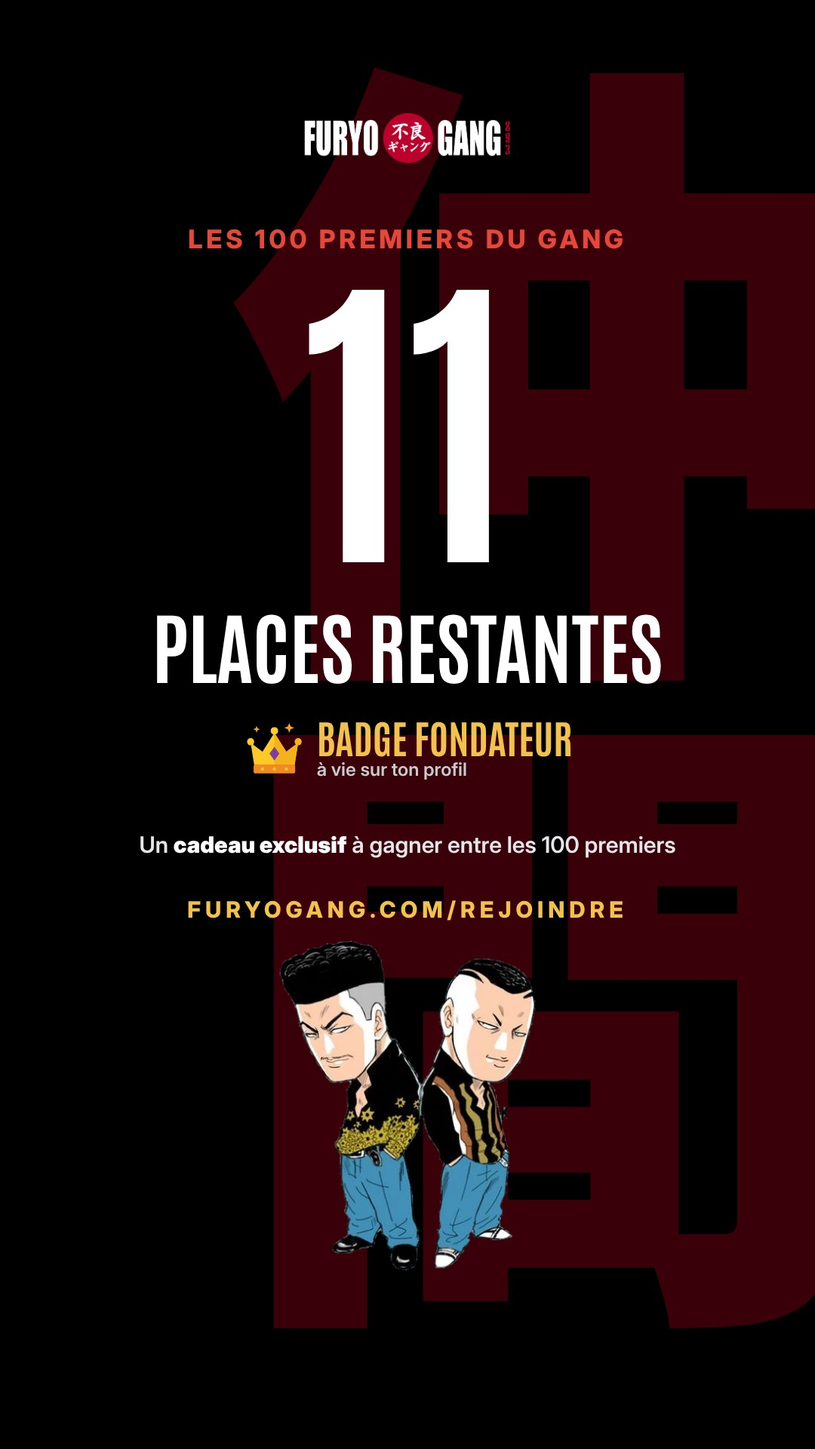
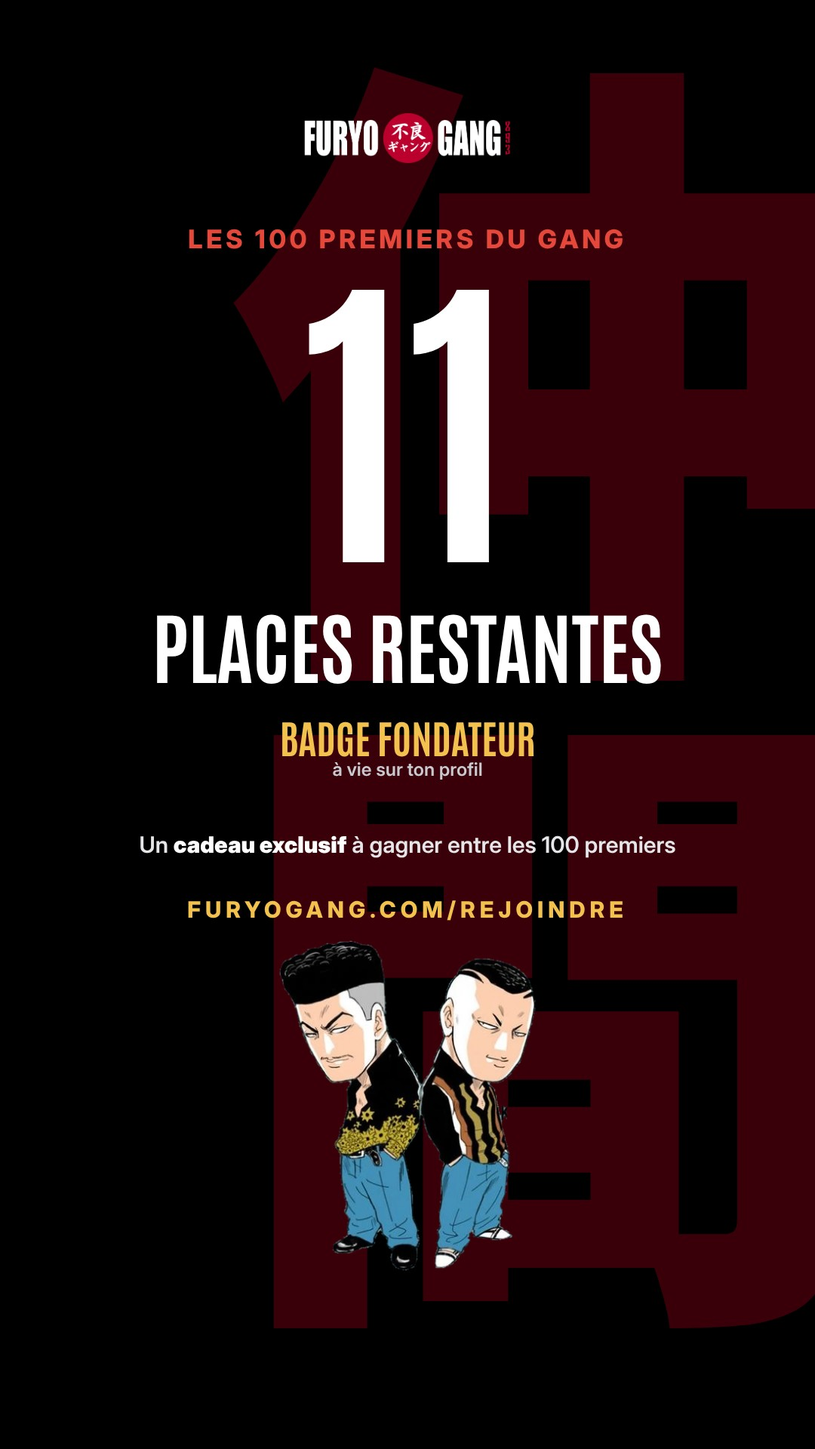
Studio « Prépublication de la semaine » : carrousel X / Instagram (1080 × 1350, 6 séries par image), téléchargeable sur téléphone ; story 100 premiers sans couronne, badge centré
Claude-Session: https://claude.ai/code/session_01ShgbxL6GpEPzbudUpDfTjj

Changed region(s): [[0.3056, 0.5, 0.7028, 0.5625]]

diff --git a/studio/prepub/index.html b/studio/prepub/index.html
@@ -1,0 +1,229 @@
+<!doctype html>
+<html lang="fr">
+<head>
+<meta charset="utf-8">
+<meta name="viewport" content="width=device-width, initial-scale=1, viewport-fit=cover">
+<meta name="robots" content="noindex">
+<title>Studio · Prépublication de la semaine · FuryoGang</title>
+<!-- Studio « Prépublication de la semaine » (Will, 24/11/2026) : le carrousel X / Instagram du dimanche, fabriqué tout seul
+     avec les mêmes données que la page /prepub/ (base Prépublication validée + images des fiches).
+     Image 1 : couverture (semaine, chiffres, mosaïque). Ensuite 6 séries par image (couverture, chapitre, magazine, jour).
+     Dernière image : les absentes, s'il y en a. Format 1080 × 1350 (4:5, plein écran sur X et Instagram).
+     Réglages par série (mettre en avant, retirer) : gardés sur l'appareil, semaine par semaine.
+     ?du=AAAA-MM-JJ : une autre semaine (celle qui contient ce jour). Le dimanche, c'est la semaine qui vient. -->
+<style>
+@font-face{font-family:FA;src:url(/fonts/Antonio.ttf) format("truetype");font-weight:100 700}
+@font-face{font-family:FI;src:url(/fonts/Inter.ttf) format("truetype");font-weight:100 900}
+@font-face{font-family:FJ;src:url(/fonts/NotoSansJP.ttf) format("truetype");font-weight:100 900}
+:root{--bg:#0c0c0e;--bg2:#17171a;--line:#262630;--cr:#F2EFE9;--mut:#9a968f}
+*{box-sizing:border-box;margin:0;padding:0}
+body{background:var(--bg);color:var(--cr);font:500 14px FI,system-ui,sans-serif;-webkit-font-smoothing:antialiased}
+.w{max-width:1100px;margin:0 auto;padding:20px 14px 80px}
+h1{font:700 30px/1 FA;text-transform:uppercase}
+.lead{color:var(--mut);margin-top:8px;line-height:1.45}
+.bar{position:sticky;top:0;z-index:5;background:rgba(12,12,14,.94);backdrop-filter:blur(8px);padding:12px 0;margin:14px 0 10px;display:flex;gap:8px;flex-wrap:wrap;align-items:center;border-bottom:1px solid var(--line)}
+button,.b{appearance:none;border:0;border-radius:11px;padding:11px 15px;font:700 13.5px FI;cursor:pointer;background:#26262c;color:#fff}
+button.main{background:#2A6FD0}
+button:disabled{opacity:.5}
+#msg{display:flex;gap:8px;flex-wrap:wrap;align-items:center;color:var(--mut);font-size:13px}
+.g{display:grid;gap:14px;grid-template-columns:repeat(auto-fill,minmax(220px,1fr))}
+.sl{background:var(--bg2);border:1px solid var(--line);border-radius:12px;padding:8px}
+.sl canvas{width:100%;height:auto;display:block;border-radius:6px}
+.sl .ft{display:flex;justify-content:space-between;align-items:center;margin-top:8px;font:600 12px FI;color:var(--mut)}
+.sl .ft a{color:var(--cr);background:#26262c;padding:6px 10px;border-radius:8px}
+h2{font:700 18px FA;text-transform:uppercase;margin:28px 0 10px}
+.ls{display:grid;gap:6px}
+.it{display:grid;grid-template-columns:1fr auto auto;gap:8px;align-items:center;background:var(--bg2);border:1px solid var(--line);border-radius:10px;padding:8px 10px}
+.it b{font:700 15px FA;text-transform:uppercase}.it small{display:block;color:var(--mut);font-size:12px;margin-top:2px}
+.it label{display:flex;gap:5px;align-items:center;font:600 12px FI;color:var(--mut);white-space:nowrap}
+.it.off{opacity:.45}
+textarea{width:100%;min-height:120px;background:var(--bg2);color:var(--cr);border:1px solid var(--line);border-radius:10px;padding:10px;font:500 14px FI}
+</style>
+</head>
+<body>
+<div class="w">
+  <h1>Prépublication de la semaine</h1>
+  <p class="lead" id="lead">Chargement…</p>
+  <div class="bar"><button class="main" id="dl">Télécharger toutes les images</button><span id="msg"></span></div>
+  <div class="g" id="g"></div>
+  <h2>Texte pour X</h2>
+  <textarea id="tx"></textarea>
+  <div style="margin-top:8px"><button id="cp">Copier</button></div>
+  <h2>Les séries de la semaine</h2>
+  <p class="lead">« À la une » place la série sur la première image avec une étiquette ; « Retirer » la sort du carrousel. Gardé sur cet appareil.</p>
+  <div class="ls" id="ls" style="margin-top:10px"></div>
+</div>
+<script>
+(function () {
+  var $ = function (s) { return document.querySelector(s); };
+  var W = 1080, H = 1350, PAR = 6;
+  var JOURS = ["dimanche", "lundi", "mardi", "mercredi", "jeudi", "vendredi", "samedi"], MOIS = ["janvier", "février", "mars", "avril", "mai", "juin", "juillet", "août", "septembre", "octobre", "novembre", "décembre"];
+  var iso = function (d) { return d.getFullYear() + "-" + ("0" + (d.getMonth() + 1)).slice(-2) + "-" + ("0" + d.getDate()).slice(-2); };
+  var get = function (u) { return fetch(u).then(function (r) { return r.ok ? r.json() : null; }).catch(function () { return null; }); };
+  var cv = function (u, w) { return u ? (/^https?:/.test(u) ? "/api/couv?u=" + encodeURIComponent(u) + "&w=" + w : u) : ""; };
+  // Semaine : lundi → dimanche ; le dimanche, la semaine qui vient (comme /prepub/).
+  var q = new URLSearchParams(location.search), base = /^\d{4}-\d{2}-\d{2}$/.test(q.get("du") || "") ? new Date(q.get("du") + "T12:00:00") : new Date();
+  if (!q.get("du") && base.getDay() === 0) base.setDate(base.getDate() + 1);
+  var lun = new Date(base); lun.setHours(12, 0, 0, 0); lun.setDate(lun.getDate() - ((lun.getDay() + 6) % 7));
+  var dim = new Date(lun); dim.setDate(dim.getDate() + 6);
+  var D1 = iso(lun), D7 = iso(dim), CLE = "fg:prepub-studio:" + D1;
+  var magNom = function (x) {
+    var m = (x.entry.split(" · ")[1] || x.mag || "").replace(/\s*\(en ligne\)/, " en ligne");
+    m = m.replace(/(\d{4})年\s*(\d{1,2})月号/, function (_, a, b) { return MOIS[+b - 1] + " " + a; });
+    m = m.replace(/\s*\d{4}\s*年?\s*(?:No\.|第)?\s*([\d\/・]+)\s*号?/, function (_, n) { return " n°" + n.replace(/・/g, "-"); });
+    return m.replace(/第(\d+)号/, "n°$1").trim();
+  };
+  var nom = function (x) { return x.entry.split(" · ")[0]; };
+  var cle = function (x) { return nom(x) + "|" + x.date; };
+  var tagDe = function (x) { var h = (x.hl || []).filter(function (t) { return t !== "Annonce" && t !== "Pause annoncée"; }); return h[0] === "Couleur d'ouverture" || h[0] === "Pages couleur" ? "Couleur" : h[0] || ""; };
+  var REG = {}; try { REG = JSON.parse(localStorage.getItem(CLE) || "{}") || {}; } catch (e) {}
+  var sauver = function () { try { localStorage.setItem(CLE, JSON.stringify(REG)); } catch (e) {} };
+  var fontes = Promise.all([new FontFace("FA", "url(/fonts/Antonio.ttf)", { weight: "100 700" }), new FontFace("FI", "url(/fonts/Inter.ttf)", { weight: "100 900" }), new FontFace("FJ", "url(/fonts/NotoSansJP.ttf)", { weight: "100 900" })].map(function (f) { return f.load().then(function (x) { document.fonts.add(x); }); })).catch(function () {});
+  var IMG = {}; var charger = function (u) { if (!u) return Promise.resolve(null); if (IMG[u]) return IMG[u]; return (IMG[u] = new Promise(function (ok) { var i = new Image(); i.crossOrigin = "anonymous"; i.onload = function () { ok(i); }; i.onerror = function () { ok(null); }; i.src = u; })); };
+  var LOGO = charger("/img/social/logo-blanc.png");
+  var DATA = null, BY = {};
+
+  // ---------- Dessin ----------
+  function couvrir(c, im, x, y, w, h, haut) { var k = Math.max(w / im.width, h / im.height), sw = w / k, sh = h / k; c.drawImage(im, (im.width - sw) / 2, haut ? 0 : (im.height - sh) / 2, sw, sh, x, y, w, h); }
+  function rr(c, x, y, w, h, r) { c.beginPath(); c.moveTo(x + r, y); c.arcTo(x + w, y, x + w, y + h, r); c.arcTo(x + w, y + h, x, y + h, r); c.arcTo(x, y + h, x, y, r); c.arcTo(x, y, x + w, y, r); c.closePath(); }
+  function ajuste(c, t, max, taille, police) { var s = taille; c.font = police.replace("#", s); while (c.measureText(t).width > max && s > 12) { s -= 2; c.font = police.replace("#", s); } return s; }
+  function lignes(c, t, max, n) { var m = t.split(/\s+/), l = [], cur = ""; m.forEach(function (w) { var e = cur ? cur + " " + w : w; if (c.measureText(e).width > max && cur) { l.push(cur); cur = w; } else cur = e; }); if (cur) l.push(cur); if (l.length > n) { l = l.slice(0, n); var d = l[n - 1]; while (c.measureText(d + "…").width > max && d.length > 1) d = d.slice(0, -1); l[n - 1] = d + "…"; } return l; }
+  function fond(c, im) {
+    c.fillStyle = "#0c0c0e"; c.fillRect(0, 0, W, H);
+    if (im) { c.save(); c.filter = "grayscale(1) blur(3px)"; c.globalAlpha = .22; couvrir(c, im, -20, -20, W + 40, H + 40, true); c.restore(); }
+    var g = c.createLinearGradient(0, 0, 0, H); g.addColorStop(0, "rgba(12,12,14,.35)"); g.addColorStop(.3, "rgba(12,12,14,.75)"); g.addColorStop(1, "rgba(12,12,14,.88)"); c.fillStyle = g; c.fillRect(0, 0, W, H);
+  }
+  function logo(c, lg) { if (lg) { var h = 56, w = lg.width * h / lg.height; c.drawImage(lg, (W - w) / 2, 34, w, h); } }
+  function pastille(c, t, x, y, coul, taille) { c.font = "800 " + (taille || 26) + "px FI"; var w = c.measureText(t).width + 36, h = (taille || 26) + 24; c.fillStyle = coul; rr(c, x, y, w, h, 12); c.fill(); c.fillStyle = "#fff"; c.textBaseline = "middle"; c.fillText(t, x + 18, y + h / 2 + 1); c.textBaseline = "alphabetic"; return w; }
+  function fleche(c, x, y, w) { c.save(); c.strokeStyle = "#F2EFE9"; c.lineWidth = 8; c.lineCap = "round"; c.lineJoin = "round"; c.beginPath(); c.moveTo(x, y); c.lineTo(x + w, y); c.moveTo(x + w - 20, y - 18); c.lineTo(x + w, y); c.lineTo(x + w - 20, y + 18); c.stroke(); c.restore(); }
+  function pied(c, t, n, tot) {
+    c.font = "700 32px FA"; c.textAlign = "center"; c.fillStyle = "#F2EFE9"; var a = t, b = "furyogang.com/prepub";
+    var wa = c.measureText(a.toUpperCase() + "  ").width, wb = c.measureText(b.toUpperCase()).width, x0 = (W - wa - wb) / 2;
+    c.textAlign = "left"; c.fillText(a.toUpperCase() + "  ", x0, H - 46); c.fillStyle = "#F2C14E"; c.fillText(b.toUpperCase(), x0 + wa, H - 46);
+    if (tot > 1) { c.font = "700 26px FA"; c.fillStyle = "#9a968f"; c.textAlign = "right"; c.fillText(n + " / " + tot, W - 48, 76); c.textAlign = "left"; }
+  }
+  function titreSemaine(c, y, taille) {
+    var a = String(lun.getDate()), b = String(dim.getDate()), m = (lun.getMonth() === dim.getMonth() ? "" : " " + MOIS[lun.getMonth()]);
+    c.font = "700 " + taille + "px FA"; c.fillStyle = "#F2EFE9"; var x = 60;
+    c.fillText((a + m).toUpperCase(), x, y); x += c.measureText((a + m).toUpperCase()).width + 26;
+    fleche(c, x, y - taille * .36, taille * .62); x += taille * .62 + 30;
+    c.fillText(b, x, y); x += c.measureText(b + " ").width;
+    c.fillStyle = "#F2C14E"; c.fillText(MOIS[dim.getMonth()].toUpperCase(), x, y);
+  }
+  function carte(c, x, y, w, h, s, im) {
+    c.save(); rr(c, x, y, w, h, 12); c.clip();
+    if (im) couvrir(c, im, x, y, w, h, true); else { var gg = c.createLinearGradient(x, y, x + w, y + h); gg.addColorStop(0, "#2a2a31"); gg.addColorStop(1, "#17171a"); c.fillStyle = gg; c.fillRect(x, y, w, h); c.fillStyle = "#6c6c74"; c.font = "700 " + Math.round(w / 4) + "px FA"; c.textAlign = "center"; c.textBaseline = "middle"; c.fillText(nom(s).split(/[\s-]+/).filter(Boolean).slice(0, 2).map(function (m) { return m[0]; }).join("").toUpperCase(), x + w / 2, y + h / 2); c.textAlign = "left"; c.textBaseline = "alphabetic"; }
+    if (s.off) { c.fillStyle = "rgba(12,12,14,.62)"; c.fillRect(x, y, w, h); }
+    var g = c.createLinearGradient(0, y + h * .62, 0, y + h); g.addColorStop(0, "rgba(0,0,0,0)"); g.addColorStop(1, "rgba(0,0,0,.92)"); c.fillStyle = g; c.fillRect(x, y + h * .6, w, h * .4);
+    c.restore();
+    var tg = s.tag; if (tg) { c.font = "800 " + Math.round(w / 19) + "px FI"; var tw = c.measureText(tg.toUpperCase()).width + 18, th = Math.round(w / 19) + 14; c.fillStyle = /Retour|Nouvel/.test(tg) ? "#4DAB9A" : "#E5483A"; rr(c, x + 10, y + 10, tw, th, 7); c.fill(); c.fillStyle = "#fff"; c.textBaseline = "middle"; c.fillText(tg.toUpperCase(), x + 19, y + 10 + th / 2 + 1); c.textBaseline = "alphabetic"; }
+    c.textAlign = "center"; c.fillStyle = s.off ? "#9a968f" : tg ? "#F2C14E" : "#F2EFE9"; c.font = "700 " + Math.round(w / 8.5) + "px FA";
+    c.fillText(s.off ? "Absente" : s.ch != null ? "Ch. " + Math.floor(s.ch) : "Nouveau ch.", x + w / 2, y + h - 16); c.textAlign = "left";
+  }
+  function dessinerCouv(c, l, ims, lg, n, tot, nMag, fondIm) {
+    fond(c, fondIm); logo(c, lg);
+    c.save(); c.font = "900 58px FJ"; c.fillStyle = "#BC002D"; "今週の連載".split("").forEach(function (k, i) { c.fillText(k, W - 100, 170 + i * 62); }); c.restore();
+    pastille(c, "PRÉPUBLICATION DE LA SEMAINE", 60, 124, "#BC002D", 26);
+    titreSemaine(c, 300, 108);
+    c.font = "600 28px FI"; c.fillStyle = "#b9b5ae"; c.fillText(l.length + " chapitre" + (l.length > 1 ? "s" : "") + " dans " + nMag + " magazine" + (nMag > 1 ? "s" : "") + " japonais", 60, 352);
+    // Mosaïque : jusqu'à 10 couvertures, la une d'abord.
+    var m = l.slice(0, 10), cols = m.length <= 3 ? 3 : m.length === 4 ? 4 : 5, gap = 14, cw = (W - 120 - gap * (cols - 1)) / cols, ch = cw * 4 / 3, rows = Math.ceil(m.length / cols), y0 = Math.round(400 + (860 - rows * (ch + 64)) / 2);
+    m.forEach(function (s, i) { carte(c, 60 + (i % cols) * (cw + gap), y0 + Math.floor(i / cols) * (ch + 64), cw, ch, s, ims[i]); c.font = "700 19px FA"; c.fillStyle = "#F2EFE9"; var t = lignes(c, nom(s).toUpperCase(), cw, 1)[0]; c.fillText(t, 60 + (i % cols) * (cw + gap), y0 + Math.floor(i / cols) * (ch + 64) + ch + 28); });
+    pied(c, tot > 1 ? "Glisse pour tout voir ·" : "Le détail :", n, tot);
+  }
+  function dessinerSeries(c, l, ims, lg, n, tot, fondIm) {
+    fond(c, fondIm); logo(c, lg);
+    titreSemaine(c, 186, 66);
+    c.font = "800 20px FI"; c.fillStyle = "#E5483A"; c.textAlign = "right"; c.fillText("PRÉPUBLICATION DE LA SEMAINE", W - 60, 180); c.textAlign = "left";
+    var cols = 3, gap = 24, cw = (W - 120 - gap * 2) / cols, ch = 400, y0 = 220;
+    l.forEach(function (s, i) {
+      var x = 60 + (i % cols) * (cw + gap), y = y0 + Math.floor(i / cols) * (ch + 122);
+      carte(c, x, y, cw, ch, s, ims[i]);
+      c.font = "700 29px FA"; c.fillStyle = "#F2EFE9"; var t = lignes(c, nom(s).toUpperCase(), cw, 2); t.forEach(function (li, k) { c.fillText(li, x, y + ch + 36 + k * 31); });
+      c.font = "600 19px FI"; c.fillStyle = "#9a968f"; var j = new Date(s.date + "T12:00:00"); var info = JOURS[j.getDay()] + " " + j.getDate() + " · " + magNom(s);
+      c.fillText(lignes(c, info, cw, 1)[0], x, y + ch + 36 + t.length * 31 + 2);
+    });
+    pied(c, "Le détail :", n, tot);
+  }
+  function dessinerAbs(c, l, lg, n, tot, fondIm) {
+    fond(c, fondIm); logo(c, lg);
+    pastille(c, "ABSENTES CETTE SEMAINE", 60, 124, "#3a3a42", 24);
+    titreSemaine(c, 252, 64);
+    c.font = "600 30px FI"; var y = 340;
+    l.forEach(function (s) { c.fillStyle = "#F2EFE9"; c.font = "700 40px FA"; c.fillText(nom(s).toUpperCase(), 60, y); c.font = "600 22px FI"; c.fillStyle = "#9a968f"; c.fillText(magNom(s), 60, y + 32); y += 92; });
+    pied(c, "Le détail :", n, tot);
+  }
+
+  // ---------- Construction ----------
+  function construire() {
+    var all = DATA.filter(function (x) { return x.date >= D1 && x.date <= D7; });
+    var ser = function (x) { return BY[String((x.series || [])[0] || "").replace(/-/g, "")] || {}; };
+    var CH = all.filter(function (x) { return x.status !== "Pause"; }).map(function (x) { var r = REG[cle(x)] || {}; return Object.assign({}, x, { tag: r.une ? (tagDe(x) || "À la une") : tagDe(x), une: !!(r.une || tagDe(x)), cache: !!r.cache, img: cv(ser(x).cover, 500) }); });
+    var PZ = all.filter(function (x) { return x.status === "Pause"; }).filter(function (x) { return !(REG[cle(x)] || {}).cache; });
+    CH.sort(function (a, b) { return (b.une - a.une) || (a.date < b.date ? -1 : a.date > b.date ? 1 : 0); });
+    var vis = CH.filter(function (x) { return !x.cache; });
+    var nMag = {}; vis.forEach(function (x) { nMag[magNom(x)] = 1; }); nMag = Object.keys(nMag).length;
+    $("#lead").textContent = "Semaine du " + lun.getDate() + " " + MOIS[lun.getMonth()] + " au " + dim.getDate() + " " + MOIS[dim.getMonth()] + " : " + vis.length + " chapitre" + (vis.length > 1 ? "s" : "") + ", " + PZ.length + " absente" + (PZ.length > 1 ? "s" : "") + ". Même contenu que la page /prepub/.";
+    // Liste des réglages
+    $("#ls").innerHTML = CH.map(function (x) { var k = cle(x), r = REG[k] || {}; return '<div class="it' + (r.cache ? " off" : "") + '"><div><b>' + nom(x) + "</b><small>" + magNom(x) + " · " + (x.ch != null ? "ch. " + Math.floor(x.ch) : "nouveau chapitre") + (tagDe(x) ? " · " + tagDe(x) : "") + '</small></div><label><input type="checkbox" data-k="' + k + '" data-r="une"' + (r.une || tagDe(x) ? " checked" : "") + (tagDe(x) ? " disabled" : "") + '>À la une</label><label><input type="checkbox" data-k="' + k + '" data-r="cache"' + (r.cache ? " checked" : "") + ">Retirer</label></div>"; }).join("") || '<p class="lead">Aucun chapitre validé pour cette semaine dans la base Prépublication.</p>';
+    // Texte X
+    var une = vis.filter(function (x) { return x.une; }).slice(0, 3).map(function (x) { return nom(x) + (x.tag && x.tag !== "À la une" ? " (" + x.tag.toLowerCase() + ")" : ""); });
+    $("#tx").value = "Prépublication de la semaine\nDu " + lun.getDate() + (lun.getMonth() === dim.getMonth() ? "" : " " + MOIS[lun.getMonth()]) + " au " + dim.getDate() + " " + MOIS[dim.getMonth()] + "\n\n" + vis.length + " chapitres dans " + nMag + " magazines japonais" + (une.length ? ", avec " + une.join(", ") : "") + ".\n\nLe détail jour par jour : furyogang.com/prepub";
+    // Images
+    var pages = [];
+    if (vis.length) pages.push({ k: "couv", l: vis });
+    for (var i = 0; i < vis.length; i += PAR) pages.push({ k: "ser", l: vis.slice(i, i + PAR) });
+    if (PZ.length) pages.push({ k: "abs", l: PZ.slice(0, 10) });
+    var fondU = vis[0] ? vis[0].img || cv(vis[0].cover, 900) : "";
+    $("#g").innerHTML = ""; SLIDES = [];
+    return Promise.all([fontes, LOGO, charger(fondU)]).then(function (r) {
+      var lg = r[1], fi = r[2];
+      return Promise.all(pages.map(function (p, n) {
+        return Promise.all(p.l.map(function (s) { return charger(s.img); })).then(function (ims) {
+          var cvs = document.createElement("canvas"); cvs.width = W; cvs.height = H; var c = cvs.getContext("2d");
+          if (p.k === "couv") dessinerCouv(c, p.l, ims, lg, n + 1, pages.length, nMag, fi);
+          else if (p.k === "ser") dessinerSeries(c, p.l, ims, lg, n + 1, pages.length, fi);
+          else dessinerAbs(c, p.l, lg, n + 1, pages.length, fi);
+          return cvs;
+        });
+      })).then(function (cs) {
+        cs.forEach(function (cvs, n) {
+          var d = document.createElement("div"); d.className = "sl"; d.appendChild(cvs);
+          var f = document.createElement("div"); f.className = "ft"; f.innerHTML = "<span>Image " + (n + 1) + " / " + cs.length + "</span>";
+          var a = document.createElement("a"); a.href = "#"; a.textContent = "Télécharger"; a.onclick = function (e) { e.preventDefault(); fichier(cvs, n).then(function (fl) { var u = URL.createObjectURL(fl), x = document.createElement("a"); x.href = u; x.download = fl.name; document.body.appendChild(x); x.click(); x.remove(); }); };
+          f.appendChild(a); d.appendChild(f); $("#g").appendChild(d); SLIDES.push(cvs);
+        });
+        if (!cs.length) $("#g").innerHTML = '<p class="lead">Rien à montrer pour cette semaine.</p>';
+      });
+    });
+  }
+  var SLIDES = [];
+  function fichier(cvs, n) { return new Promise(function (ok) { cvs.toBlob(function (b) { ok(new File([b], "prepub-" + D1 + "-" + String(n + 1).padStart(2, "0") + ".jpg", { type: "image/jpeg" })); }, "image/jpeg", .92); }); }
+
+  $("#ls").addEventListener("change", function (e) { var i = e.target; if (!i.dataset.k) return; var r = REG[i.dataset.k] = REG[i.dataset.k] || {}; r[i.dataset.r] = i.checked; sauver(); construire(); });
+  $("#cp").onclick = function () { navigator.clipboard.writeText($("#tx").value).then(function () { $("#cp").textContent = "Copié"; setTimeout(function () { $("#cp").textContent = "Copier"; }, 1500); }); };
+  // Téléchargement : sur téléphone, le menu de partage (Enregistrer les images, ou X directement) ; sinon un fichier par image.
+  $("#dl").onclick = function () {
+    if (!SLIDES.length) return; var b = $("#dl"); b.disabled = true; $("#msg").textContent = "Préparation…";
+    Promise.all(SLIDES.map(fichier)).then(function (files) {
+      var tel = /iPhone|iPad|Android/i.test(navigator.userAgent);
+      if (tel && navigator.canShare && navigator.canShare({ files: files })) {
+        $("#msg").innerHTML = "";
+        var go = document.createElement("button"); go.className = "main"; go.textContent = "Enregistrer les " + files.length + " images"; go.onclick = function () { navigator.share({ files: files }).catch(function () {}); }; $("#msg").appendChild(go);
+        // Le menu de partage ne propose pas toujours X au-delà de 4 images : lots de 4 en secours.
+        if (files.length > 4) for (var k = 0; k < files.length; k += 4) (function (lot, de) { var x = document.createElement("button"); x.style.cssText = "background:#000;border:1px solid #444"; x.textContent = "Pour X : " + (de + 1) + (lot.length > 1 ? " à " + (de + lot.length) : ""); x.onclick = function () { navigator.share({ files: lot }).catch(function () {}); }; $("#msg").appendChild(x); })(files.slice(k, k + 4), k);
+        return;
+      }
+      files.forEach(function (f, i) { setTimeout(function () { var a = document.createElement("a"); a.href = URL.createObjectURL(f); a.download = f.name; document.body.appendChild(a); a.click(); a.remove(); }, i * 400); });
+      $("#msg").textContent = files.length + " images téléchargées.";
+    }).finally(function () { b.disabled = false; });
+  };
+
+  Promise.all([get("/api/prepub"), get("/api/biblio")]).then(function (r) {
+    DATA = (r[0] && r[0].items) || []; ((r[1] && r[1].items) || []).forEach(function (s) { BY[s.id] = s; });
+    construire();
+  });
+})();
+</script>
+</body>
+</html>

diff --git a/functions/api/admin/contenus.js b/functions/api/admin/contenus.js
@@ -87,7 +87,7 @@ async function lire(env) {
   if (!d || !Array.isArray(d.items)) d = { v: V, items: DEPART };
   // Interview mangaka : liste de départ des mangakas à contacter (Will, 27/10/2026), ajoutée une fois si absente.
   // Prépublication de la semaine (Will, 24/11/2026) : page /prepub/ et post du dimanche.
-  const pp = d.items.find(x => x.id === "prepub-sem"); if (pp && !pp.v2) Object.assign(pp, { v2: 1, nm: "Prépublication de la semaine", st: "pr", fq: "h", ds: "Chaque dimanche : un seul post (X et Instagram) avec tous les chapitres de la semaine qui vient dans les magazines japonais, et la page /prepub/ (toujours la même adresse, contenu renouvelé). Les stories restent au fil de la semaine ; plus de post X par chapitre.", pages: ["/prepub/"], rythme: "Chaque dimanche (samedi, mardi et jeudi : les fiches).", assets: [{ nm: "Page Prépublication de la semaine", st: "ok", url: "/prepub/" }, { nm: "Post réseaux (maquette)", st: "pr", url: "/modeles/prepub-semaine/post.html" }] });
+  const pp = d.items.find(x => x.id === "prepub-sem"); if (pp && !pp.v3) Object.assign(pp, { v2: 1, v3: 1, nm: "Prépublication de la semaine", st: "ok", fq: "h", ds: "Chaque dimanche : un seul post (X et Instagram) avec tous les chapitres de la semaine qui vient dans les magazines japonais, et la page /prepub/ (toujours la même adresse, contenu renouvelé). Les stories restent au fil de la semaine ; plus de post X par chapitre.", pages: ["/prepub/"], rythme: "Chaque dimanche (samedi, mardi et jeudi : les fiches).", assets: [{ nm: "Page Prépublication de la semaine", st: "ok", url: "/prepub/" }, { nm: "Carrousel du dimanche (studio)", st: "ok", url: "/studio/prepub/" }] });
   const itw = d.items.find(x => x.id === "interview"); if (itw && !Array.isArray(itw.contacts)) itw.contacts = CONTACTS;
   return d;
 }

diff --git a/modeles/cent-premiers.html b/modeles/cent-premiers.html
@@ -30,7 +30,7 @@ body{margin:0;background:#333}.c{position:relative;overflow:hidden;background:#0
 <div class="lab" style="left:0;right:0;text-align:center;top:300px">Les 100 premiers du gang</div>
 <div class="big n" style="left:0;right:0;text-align:center;top:360px;font-size:420px">11</div>
 <div class="t1" style="left:0;right:0;text-align:center;top:800px;font-size:104px">places restantes</div>
-<div class="badge" style="left:50%;transform:translateX(-50%);top:950px"><svg viewBox="0 0 64 64"><path d="M47 6l1.4 3.6L52 11l-3.6 1.4L47 16l-1.4-3.6L42 11l3.6-1.4z" fill="#F7A21B"/><path d="M14 9l1 2.4 2.4 1-2.4 1-1 2.4-1-2.4-2.4-1 2.4-1z" fill="#F7A21B"/><path d="M8 26l12 9 12-19 12 19 12-9-4 25H12z" fill="#FFC928"/><path d="M32 16l12 19 12-9-4 25H32z" fill="#F5B21C"/><circle cx="8" cy="25" r="3.6" fill="#FFC928"/><circle cx="56" cy="25" r="3.6" fill="#F5B21C"/><circle cx="32" cy="14" r="3.8" fill="#FFC928"/><path d="M32 30l5 7-5 7-5-7z" fill="#7B3FA0"/><rect x="11" y="48" width="42" height="9" rx="2" fill="#F08A24"/><g fill="#FFC928"><circle cx="20" cy="52.5" r="1.6"/><circle cx="32" cy="52.5" r="1.6"/><circle cx="44" cy="52.5" r="1.6"/></g></svg><div><b>Badge Fondateur</b><span>à vie sur ton profil</span></div></div>
+<div class="badge" style="left:0;right:0;top:950px;justify-content:center;text-align:center"><div><b>Badge Fondateur</b><span>à vie sur ton profil</span></div></div>
 <div class="gift" style="left:120px;right:120px;text-align:center;top:1100px">Un <b>cadeau exclusif</b> à gagner entre les 100 premiers</div>
 <div class="url" style="left:0;right:0;text-align:center;top:1190px">FURYOGANG.COM/REJOINDRE</div>
 <img class="duo" src="/img/don/duo.webp" style="left:50%;transform:translateX(-50%);top:1245px;height:440px;width:520px;object-position:bottom center"></div>

diff --git a/hq/index.html b/hq/index.html
@@ -557,6 +557,7 @@ h1{font:700 64px/.92 "FGAntonio";text-transform:uppercase;margin:0 0 6px}
     <div class="tiles">
       <a class="tile" href="/admin/"><h2>Back-office</h2><p>Actualités et veille, prochaines sorties, couvertures, base mangas, statistiques.</p></a>
       <a class="tile" href="/studio/semaine/"><h2>Récap semaine</h2></a>
+      <a class="tile" href="/studio/prepub/"><h2>Prépublication de la semaine</h2><p>Le carrousel du dimanche (X, Instagram), à télécharger sur le téléphone.</p></a>
       <a class="tile" href="/studio/mois/"><h2>Récap du mois</h2></a>
       <a class="tile" href="/studio/mois-video/"><h2>Récap du mois · Vidéo</h2><p>Draft animé (fondus) — à regarder / enregistrer.</p></a>
       <a class="tile" href="/recap/mois/2026-09/"><h2>Récap du mois · Page news</h2><p>La page publique à partager chaque mois : hero + toutes les sorties (France puis Japon), clic sur une couverture → ajout collection. Publiée en actu.</p></a>
